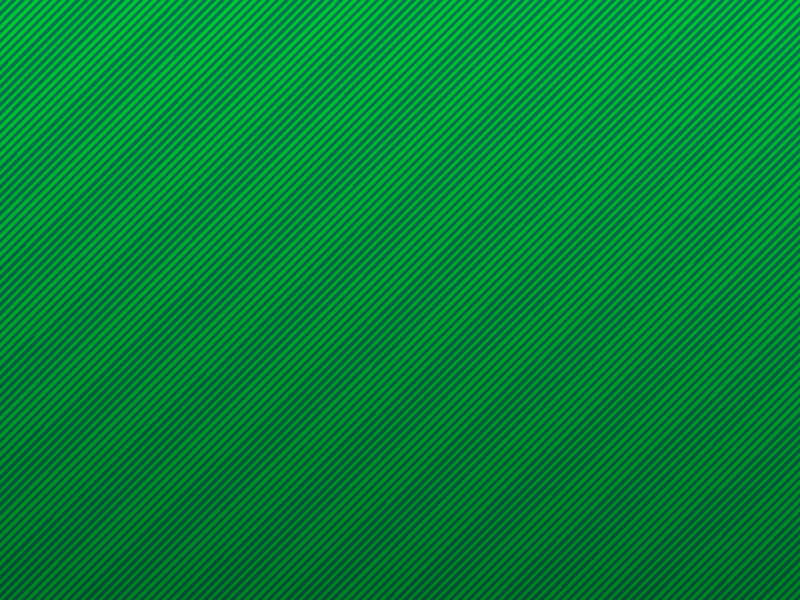
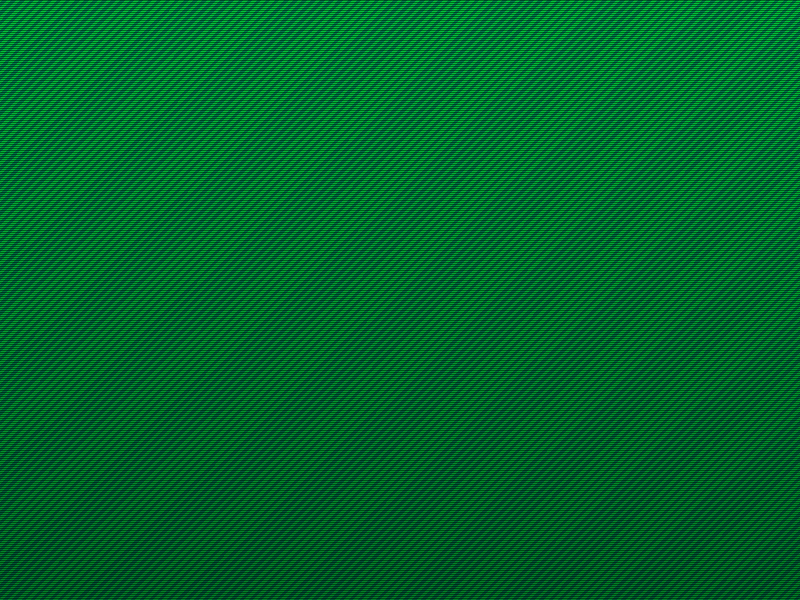
committing 5

diff --git a/index.html b/index.html
@@ -3,7 +3,6 @@
 		<style>
 			body {
 				background-image: url('background.png');
-				filter: brightness(50%);
 			}
 			.wt {
 				color: white;
@@ -11,7 +10,6 @@
 			.logo {
 				width: auto;
 				height: 128px;
-				filter: brightness(100%);
 			}
 		</style>
 	</head>
